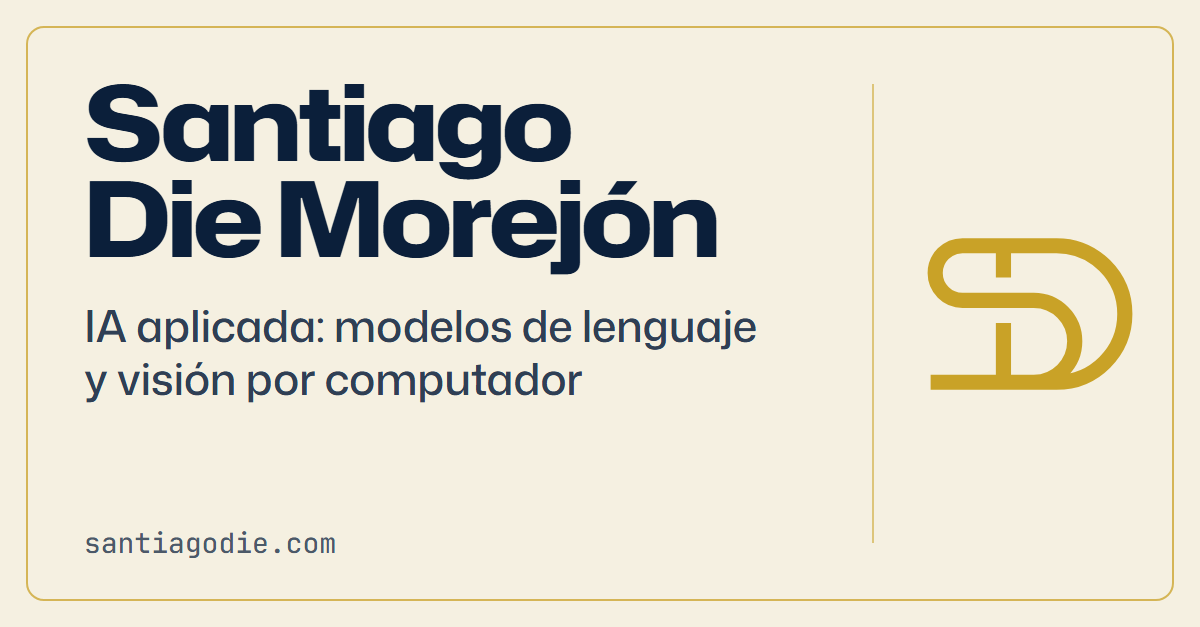
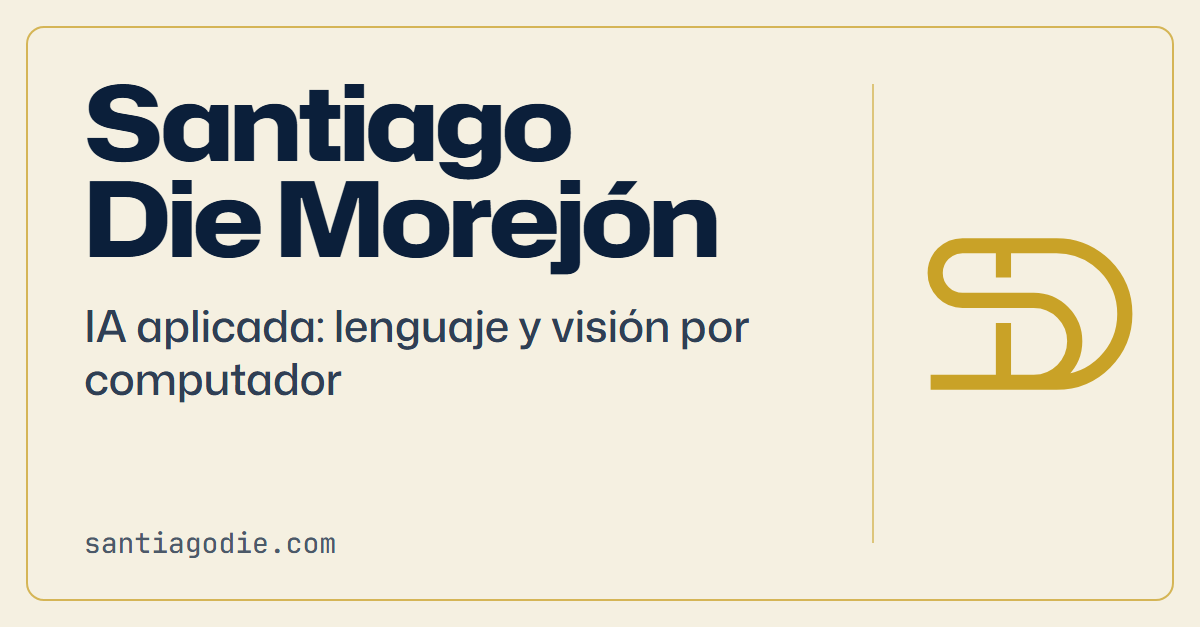
Lote 22: ajustes antes del merge
- Islamontana: frontend y backend en desarrollo; mientras tanto, una versión
  estática se despliega con GitHub Actions; el producto final irá con Docker en
  un servidor propio. Docker sigue fuera de las etiquetas. En el CV, 1 viñeta
  (con 2, los tres CV pasaban a 2 páginas).
- Prompts sin enlace «Modelo»: el modelo público es el ULMFiT, no el DistilBERT
  de la cifra. Satélite lo conserva.
- «Backend y despliegue» con 9 elementos; Pydantic, TypeORM y zod pasan a
  «Backend: librerías», en «Más habilidades». Sin excepción en DESIGN.md.
- Rol del hero más corto: 2 líneas como máximo a 360 px en los tres idiomas.
- print.css: espaciados y texto de las entradas algo más ajustados, solo al
  imprimir; Ctrl+P vuelve a 2 páginas en los tres idiomas y la pantalla queda
  idéntica píxel a píxel.

Claude-Session: https://claude.ai/code/session_011QBFp1mGdbdiuA7uxqzWxG

Changed region(s): [[0.0617, 0.5758, 0.4933, 0.6364], [0.2775, 0.4848, 0.6475, 0.5758]]

diff --git a/css/print.css b/css/print.css
@@ -687,3 +687,51 @@ html[lang="en"] .portrait {
 .more--skills .more__summary {
   display: none !important;
 }
+
+/* Lot 22: the Experience entries grew longer and Contact gained a row (Hugging Face);
+   so that Contact, kept whole with its photo, stays on page two, entry text, section
+   titles, subheads, contact rows and skill rows are set a little tighter. */
+.entry__text,
+.entry__details {
+  font-size: 8pt !important;
+  line-height: 1.35 !important;
+}
+
+.skills__items,
+.skills__group dt,
+.langs dd,
+.langs dt {
+  line-height: 1.2 !important;
+}
+
+.section__title {
+  margin: 2mm 0 0.6mm !important;
+}
+
+.contact__row,
+.contact__link {
+  padding: 0.3mm 0 !important;
+}
+
+.skills__group,
+.langs__item {
+  padding-block: 0.15mm !important;
+}
+
+.subhead {
+  margin: 1.5mm 0 0.4mm !important;
+}
+
+.entry {
+  padding-block: 0.4mm !important;
+}
+
+.section__lead {
+  margin: 0 0 1mm !important;
+}
+
+/* In a skill or language row the value no longer drops 0.4mm below its name. */
+.skills__items,
+.langs dd {
+  margin-top: 0 !important;
+}

diff --git a/DESIGN.md b/DESIGN.md
@@ -104,7 +104,7 @@ Optional About text under the chat is set as display copy (Hubot Sans 500, up to
 - **About chat**: under the section title, in the text column (from 64em columns 3–12, like every other section body, about 1008px at 1440); the conversation keeps a centred 46rem column inside. Navy panel, 22px radius, as tall as the finished chat from the first paint (everything is laid out, only invisible, and the notice keeps its place), so nothing around it moves in any language or width. The conversation is capped at `max(15rem, min(36rem, 100svh − 22rem))`: past that (phones, short windows) it scrolls inside the panel, is followed by the stream as the answer is written, fades at the edges that have more to read, and once finished takes keyboard focus to be scrolled; the notice and the box stay in view below it. At rest a pill box in bone 7 % with the typed question and a 40px gold send button with a navy arrow (48px target), mid-panel. Question bubble in bone with navy text; answer in Mona Sans on navy. Skip and Replay: mono, top-right, 44px, in the same place; one fades out as the other fades in (160 ms, lot 9). Finished: the **message-limit notice** sits above the box, a thin bar in bone 6 % with a 1px gold edge (60 %) and 14px radius, a monoline gold clock drawn like the monogram (square ends, round joins), the sentence in `--bone-2` and the link in gold, underlined, with an SVG arrow (44px target, gold focus ring); the box dims to 72 % with the placeholder in bone 42 % and the send button turned to a slate disk (bone 22 % over navy). Without JavaScript the chat is shown in that finished state, the notice without a time.
 - **Progress line**: see Signature elements. Nodes: a 9px ring on the line at each number (section background fill, gold 1.5px stroke) that fills gold when lit; the number turns from navy 66 % to navy (gold on navy) over 200 ms.
 - **Section header sides**: from 48em, even visible sections (02, 04...) set the number and title right-aligned so they meet the line on the right; body text always stays left-aligned for reading. Numbers are assigned by the build to the visible sections only.
-- **Featured card**: white, 1px gold border (30 %; the traced frame is full gold), 12px radius; one structure for all three: title (translated), course, description, README metrics (value in mono over its label, two across where they fit on one line, otherwise stacked; a value never wraps; a value whose README section exists links to it, `source` in `data/projects.json`, with a fine 1px gold underline, tabular figures unchanged, a 30px target above the card's link layer; an anchor is only added once checked against the README as GitHub renders it), technologies (gold dot separators), then underlined "Live demo" and "Code" links, and "Model" after "Code" where the project's model is public on the Hugging Face Hub (`model` in `data/projects.json`, lot 22: satellite and prompts). Since lot 22 the three featured projects are the face search, the satellite classifier and the prompt classifier (language and vision, the owner's own work). A project made of several repositories (Life simulation) gives each part one compact row, "Service · Live demo · Code", "Web client · Live demo · Code", the part's name leading, where the card is wide enough (one column from 36em to 64em, three columns from 84em); narrower, the part's name sits over its two links. No repository name under the links: it repeated where "Code" already goes, and the small cards keep it. From 64em the three cards are as tall as the tallest and share one subgrid (6 rows: title, course, description, metrics, technologies, links), so every row starts at the same height in all three and the metrics and links line up; the spare space is shared out between the rows (owner, lot 7: the gaps are accepted, the lot 3 limit is lifted). Below 64em (one column), with JavaScript, a card folds to its title and technologies plus a "View details" row (the disclosure's round +/× button, 44px, above the card's link layer, so touching it never opens GitHub); it unfolds course, description, metrics and links (`card__detail` wrappers: `display: contents` elsewhere, a `flow-root` block in one column so its height holds its children's margins, with the section's assembly animation switched off on it so unfolding never replays an entrance), animated as a disclosure (see Disclosure motion; closing keeps the button still on screen, so the cards below never move and the card gathers up into the button), `aria-expanded` and `aria-controls` on the button, folded content out of the tab order (`inert` while it closes, then display: none), state not kept; arriving from the hero's index or any `#p-<id>` link unfolds that card once the scroll has landed (see below). Without JavaScript and on paper, all shows. Projects at 390x844: 2,336px to 1,232px. The whole card is a link to the main repository (for Life simulation, `life-simulation-service`), like a small card: the title link's `::after` covers it, its focus ring goes round the card, and Demo and Code sit above that layer as 44px targets of their own. Three across from 64em, one column below. Hover: lifts 2px, soft shadow, border to full gold. Arriving at a card (`#p-<id>`: the hero's index, a link, or on load; lot 9), the page first scrolls there smoothly. When the scroll lands (`scrollend`, with a 1.2 s fallback, or at once if the card is already in place), a folded card unfolds as a disclosure (700 ms, its top edge still on screen) while its frame traces once in gold (700 ms, `data-arrived`) and fades; the border stays full gold (`:target`). With reduced motion it is unfolded at once, without the trace.
+- **Featured card**: white, 1px gold border (30 %; the traced frame is full gold), 12px radius; one structure for all three: title (translated), course, description, README metrics (value in mono over its label, two across where they fit on one line, otherwise stacked; a value never wraps; a value whose README section exists links to it, `source` in `data/projects.json`, with a fine 1px gold underline, tabular figures unchanged, a 30px target above the card's link layer; an anchor is only added once checked against the README as GitHub renders it), technologies (gold dot separators), then underlined "Live demo" and "Code" links, and "Model" after "Code" where the model behind the card's figures is public on the Hugging Face Hub (`model` in `data/projects.json`; lot 22: satellite only, its ResNet18; the prompt card shows DistilBERT's 67 % and the public model there is the ULMFiT one, so it gets no link until DistilBERT is published). Since lot 22 the three featured projects are the face search, the satellite classifier and the prompt classifier (language and vision, the owner's own work). A project made of several repositories (Life simulation) gives each part one compact row, "Service · Live demo · Code", "Web client · Live demo · Code", the part's name leading, where the card is wide enough (one column from 36em to 64em, three columns from 84em); narrower, the part's name sits over its two links. No repository name under the links: it repeated where "Code" already goes, and the small cards keep it. From 64em the three cards are as tall as the tallest and share one subgrid (6 rows: title, course, description, metrics, technologies, links), so every row starts at the same height in all three and the metrics and links line up; the spare space is shared out between the rows (owner, lot 7: the gaps are accepted, the lot 3 limit is lifted). Below 64em (one column), with JavaScript, a card folds to its title and technologies plus a "View details" row (the disclosure's round +/× button, 44px, above the card's link layer, so touching it never opens GitHub); it unfolds course, description, metrics and links (`card__detail` wrappers: `display: contents` elsewhere, a `flow-root` block in one column so its height holds its children's margins, with the section's assembly animation switched off on it so unfolding never replays an entrance), animated as a disclosure (see Disclosure motion; closing keeps the button still on screen, so the cards below never move and the card gathers up into the button), `aria-expanded` and `aria-controls` on the button, folded content out of the tab order (`inert` while it closes, then display: none), state not kept; arriving from the hero's index or any `#p-<id>` link unfolds that card once the scroll has landed (see below). Without JavaScript and on paper, all shows. Projects at 390x844: 2,336px to 1,232px. The whole card is a link to the main repository (for Life simulation, `life-simulation-service`), like a small card: the title link's `::after` covers it, its focus ring goes round the card, and Demo and Code sit above that layer as 44px targets of their own. Three across from 64em, one column below. Hover: lifts 2px, soft shadow, border to full gold. Arriving at a card (`#p-<id>`: the hero's index, a link, or on load; lot 9), the page first scrolls there smoothly. When the scroll lands (`scrollend`, with a 1.2 s fallback, or at once if the card is already in place), a folded card unfolds as a disclosure (700 ms, its top edge still on screen) while its frame traces once in gold (700 ms, `data-arrived`) and fades; the border stays full gold (`:target`). With reduced motion it is unfolded at once, without the trace.
 - **Small project card**: white, hairline border, 12px radius; title, course, technologies, and at the foot the repository name in mono with an arrow, always whole: it wraps only after a hyphen (`<wbr>` from the build), never inside a word. The whole card is one link to the repository (the title link's `::after` covers it; no nested links), and its focus ring goes round the card; a project with a live web demo adds a small underlined "Demo" link that sits above that layer as a separate target. Owner's rule (lot 6): every card, featured or small, opens its repository (`repo` in `data/projects.json`) wherever it is clicked, never Colab or a download; the secondary link is a live web demo (`demo.type: "web"`) or, discreetly, a Colab notebook ("Colab"); never a download (the library's release link was removed). They live in the More projects scroller (see below), all as tall as the tallest in the row; text is never cut. Hover: lifts 2px, gold border, arrow nudges; press scales to 0.985.
 - **Disclosure motion** (lot 8; one engine in `main.js` for the featured cards' "View details", More projects and More skills; the mobile menu keeps its own CSS transitions).
 
@@ -128,7 +128,7 @@ Optional About text under the chat is set as display copy (Hubot Sans 500, up to
 - **Disclosure** (More projects, under the featured cards): a native `<details>`, closed on every visit (the state is not kept), so the page leads with the three featured projects. One row between two hairlines (`--line`): the title in the group-subhead style (Hubot Sans 700, `--step-1`; the h3 itself sits just before, visually hidden, because screen readers expose a summary as a button and drop a heading inside it), the count in mono tabular figures ("· 7", from `data/projects.json`), and at the far end a round button: a 1px ring in `--line-strong`, 32px seen inside a 44px box, holding a plus of two 1.5px navy strokes. The whole row (72px tall) is the target (`touch-action: manipulation`, no tap flash), with the site's focus ring; hover (fine pointer only) and focus turn the ring full navy. Open: the plus turns 45° into a cross on the fold's own clock (260 ms in, 180 ms out, `--ease-out`). Since lot 8 the block grows and shrinks (see Disclosure motion below). Lot 6 had stopped animating its height because re-measuring the progress line on every frame cost 130–590 ms a frame; lot 8 lifts that by holding the line still while a fold moves. The browser's find-in-page opens it on a match. A link to a card inside (`#p-<id>`), on load or on `hashchange`, works like arriving at a featured card (lot 9): the browser would open it at once and scroll past its summary, so the hash is set aside while the page scrolls smoothly to the summary; once it lands the disclosure grows (700 ms), the card comes into view in its row, and the hash is put back. With reduced motion it opens at once. Opening or closing changes the page height; the progress line re-measures through its ResizeObserver on `main` and a capturing `toggle` listener for any disclosure (at most once a frame, only if `main` changed size, and never while a fold moves: then once when it lands); the scroll keyframes get a new name at each measurement (`progress-draw-a`/`-b`), because a running animation keeps the keyframes it started with (lot 7: with More skills open the tip drew 150–760px behind), its nodes staying on the line and its tip without jumps. The line's samples (length against height, for the tip and the scroll keyframes) come from the straight runs and quarter turns it is drawn with, computed in plain arithmetic; only the total length is asked of the browser. Print (lot 4, to do): `@media print` must show it open.
 - **Scroller** (inside the disclosure): one row of the small cards, native CSS: a grid flowing in columns, `overflow-x: auto`, `scroll-snap-type: x mandatory` (each card snaps at its start), `overscroll-behavior-x: contain`. It bleeds into the page margins, with `scroll-padding-inline` equal to them, so a snapped or focused card lines up with the text column while the next one always peeks in: 85 % of the column below 36em (about 50px of the next card at 390), about 2¼ cards from 36em, about 3⅓ from 64em (at 1440, 354px cards). Its sides with more to see fade out with a `mask` (to transparent, never a colour), as wide as the page margin: driven by `animation-timeline: scroll(self inline)` with registered `--fade-start`/`--fade-end` where supported, otherwise from `data-start`/`data-end` set by main.js. It is a `region` named "More projects, scrollable" (translated), focusable (`tabindex="0"`) so the arrow keys scroll it; a card reached with Tab comes whole into view, clear of the fades. Previous and next arrows (round buttons like the disclosure's, a chevron inside, white-filled so the faded card behind does not show through) sit over the row's sides, in the page margins over the fades, centred on the cards, only for a fine pointer and with JavaScript. Their target is the margin less 12px, between 24px and 44px (44px at 1440, 39px at 1024, 26px at 768), so they keep 6px clear of every card and its focus ring. Each moves one card (smooth, or instant with reduced motion); at its end an arrow is `aria-disabled` and goes away (opacity 0 over 150 ms, then hidden for screen readers and the pointer); with nothing to scroll (a single card) there are no arrows. The wheel is never turned into sideways scrolling: it keeps scrolling the page. Without JavaScript: no arrows; the row scrolls with its scrollbar or a swipe.
 - **Entries**: hairline-ruled rows; period in mono in a 12rem column from 48em; title in display type; organisation with the place in tertiary navy; text; Education's line of subjects or track in tertiary navy, and (lot 22) the degree's thesis and honours as two more lines of the same style (`thesis`, `honors` in `education.items`); Experience's technologies with gold dots (Mona Sans, like the cards'). **Certifications** follow Education as a short ruled list under a group subhead, only while the list has items (empty since lot 22: the quantum computing course is named in its skills group, and French is backed by the Baccalauréat).
-- **Skills**: one ruled row per group, the name (display type) in the 12rem column and the items in Mona Sans (weight 500) with gold dots; no levels, bars or percentages. Lot 22 (owner's table, 2026-11-20, applied AI focus) replaces lot 6's ten groups with twelve: six shown (language and LLMs; computer vision; ML and data; backend and deployment; other languages; AI-assisted development), the same six as the CV's skills (`SKILL_GROUPS` in `tools/make_cv.py`), then six in "More skills" (frontend; models and demos; knowledge management; other languages, coursework; other; quantum computing). **Backing rule (lot 22, owner's rule):** every skill in the six shown groups, on the site and in the CV, is backed by a project or an experience visible on the site (the backing of each one is in `.audit/l22/tabla-contenido.md`); categories (machine learning, deep learning, MLOps, computer vision, NLP, LLMs, data mining) and GitHub are not skills there; a skill backed only by coursework goes to "More skills" under a group whose name says so (C++ and R, "Other languages (coursework)"), and never into the CV. At most nine items a group (split rather than cut), except backend and deployment, twelve by the owner's list in lot 22. A skill joins only with a use in a repository (lot 5 audit) or the owner's say-so, and is never tied to a project it was not part of. No counts per skill (B2, discarded). The first six groups show (`SKILLS_SHOWN` in `tools/build.py`; four until lot 22); the others sit in a "More skills" disclosure (`details.more.more--skills`), the same component as More projects without its scrolling row, its count the number of skills inside; on paper it is open and has no summary row. On phones (below 48em, with JavaScript) its list, longer than a screen, ends with **Hide skills** (EN "Hide skills", ES «Ocultar habilidades», FR «Masquer les compétences»; `skills.hide`): a 44px row like "View details", its round button showing the cross. It closes the disclosure keeping what is below still, so the list gathers up into the button and the summary lands where the button was; focus goes to the summary. Not on paper, not without JavaScript. **Languages** follow as ruled rows of language and level under a group subhead.
+- **Skills**: one ruled row per group, the name (display type) in the 12rem column and the items in Mona Sans (weight 500) with gold dots; no levels, bars or percentages. Lot 22 (owner's table, 2026-11-20, applied AI focus) replaces lot 6's ten groups with thirteen: six shown (language and LLMs; computer vision; ML and data; backend and deployment; other languages; AI-assisted development), the same six as the CV's skills (`SKILL_GROUPS` in `tools/make_cv.py`), then seven in "More skills" (frontend; backend libraries: Pydantic, TypeORM, zod; models and demos; knowledge management; other languages, coursework; other; quantum computing). **Backing rule (lot 22, owner's rule):** every skill in the six shown groups, on the site and in the CV, is backed by a project or an experience visible on the site (the backing of each one is in `.audit/l22/tabla-contenido.md`); categories (machine learning, deep learning, MLOps, computer vision, NLP, LLMs, data mining) and GitHub are not skills there; a skill backed only by coursework goes to "More skills" under a group whose name says so (C++ and R, "Other languages (coursework)"), and never into the CV. At most nine items a group, with no exceptions (split rather than cut: backend and deployment keeps nine, and its libraries go to "More skills"). A skill joins only with a use in a repository (lot 5 audit) or the owner's say-so, and is never tied to a project it was not part of. No counts per skill (B2, discarded). The first six groups show (`SKILLS_SHOWN` in `tools/build.py`; four until lot 22); the others sit in a "More skills" disclosure (`details.more.more--skills`), the same component as More projects without its scrolling row, its count the number of skills inside; on paper it is open and has no summary row. On phones (below 48em, with JavaScript) its list, longer than a screen, ends with **Hide skills** (EN "Hide skills", ES «Ocultar habilidades», FR «Masquer les compétences»; `skills.hide`): a 44px row like "View details", its round button showing the cross. It closes the disclosure keeping what is below still, so the list gathers up into the button and the summary lands where the button was; focus goes to the summary. Not on paper, not without JavaScript. **Languages** follow as ruled rows of language and level under a group subhead.
 - **Contact, footer**: hairline-ruled rows with labels in display type and values in mono (addresses): Email, GitHub, LinkedIn, Hugging Face (lot 22; the same row as the other profiles) (gold arrow), and Location in Mona Sans (no arrow, not a link); footer with the gold monogram. Contact also shows the owner's photo (`img/portrait-*`, 4:5, AVIF and WebP with a JPEG fallback at 1x and 2x, no metadata), untouched, in a fine gold frame with a 5px mat like a card: above the text below 64em, to its right from 64em, under the title where the progress line arrives (8rem wide up to 80em, so every contact value stays on one line; 10rem from 80em). It assembles like a card, its frame tracing in first.
 - **TODO marker**: dashed gold frame; navy text on light, gold on navy. Kept for any TODO string outside paragraphs and entries; paragraphs and entries marked TODO are not published at all.
 
@@ -145,7 +145,7 @@ Optional About text under the chat is set as display copy (Hubot Sans 500, up to
 - **Gone in print:** the header, the language bar, the progress line, the hero's buttons and featured index, section numbers, card frames and icons, the chat's question, notice, box and controls, the More projects button and arrows, the fades, and the footer. **Transformed:** About is the chat's answer as plain paragraphs; More projects is open, as a compact list (title, course and technologies on one line, the links on the next); whatever JavaScript left mid-animation (section assembly, the chat, the monogram) prints finished.
 - After every outside link its URL is printed without the scheme (`data-url`, written by the build); internal links, the cards' own link and Contact (which already shows its addresses) print none. Entries, cards and groups never split across a page (`break-inside: avoid`), headings never end a page (`break-after: avoid`), and Contact stays whole with its photo (16mm, a fine navy frame).
 - **Fonts:** static instances of the site's faces, only for print (`fonts/print/`, declared with `@font-face` inside `print.css`, so the screen never downloads them): "SD Print Sans" Regular and SemiBold (from Mona Sans), "SD Print Display" Bold (from Hubot Sans) and "SD Print Mono" Regular (from JetBrains Mono), made once with fonttools (`.audit/scripts/make-print-fonts.py`). Mona and Hubot are OFL with reserved names, so the instances are renamed; the copyright notices and the licences (`fonts/print/OFL-*.txt`) are kept. Chrome embeds variable fonts in a PDF as drawn glyphs (650 KB a PDF); the static ones embed as small subsets (130–180 KB) and print the same on Windows and on the Ubuntu runner.
-- **Printed CV, lot 6:** skill and language rows are tighter (0.35mm padding, 7.9pt), so ten groups still leave room for Contact on page two. Since lot 22, About prints the CV's summary (`cv.summary`, the same text as the PDF, first person, a print-only `cv-profile` paragraph from `render_cv_profile`) whether or not the CV is public: the chat's AI voice never reaches paper (until lot 22, while the CV was not public, it printed the chat's first paragraph).
+- **Printed CV, lot 6:** skill and language rows are tighter (0.35mm padding, 7.9pt), so ten groups still leave room for Contact on page two. Lot 22 (more groups, longer Experience, a Hugging Face row in Contact): entry text and Education's lines at 8pt and 1.35, skill and language lines at 1.2 with no drop under their name, section titles 2mm/0.6mm, subheads 1.5mm/0.4mm, entries 0.4mm and contact rows 0.3mm of padding; print only (the screen is identical pixel for pixel) and still two pages in the three languages. Since lot 22, About prints the CV's summary (`cv.summary`, the same text as the PDF, first person, a print-only `cv-profile` paragraph from `render_cv_profile`) whether or not the CV is public: the chat's AI voice never reaches paper (until lot 22, while the CV was not public, it printed the chat's first paragraph).
 - **CV-only content** (in the page with `hidden`, shown only by `print.css`, never in the JSON-LD): About is the CV's first-person summary (`cv.summary`; `cv.profile` was removed in lot 22, so there is one summary to keep) in place of the chat, and Contact adds the nationality and the right to work in the EU (`cv.nationality`). The English CV goes without the photo, the Spanish and French ones keep it (`html[lang]`), on paper and in the PDF alike. The row that downloads the CV is left out of the CV itself.
 - **PDFs, made at every deploy:** after `python tools/build.py`, the Pages workflow runs `tools/make_cv.py` (standard library and the runner's Chrome; nothing versioned), which serves `dist/` over HTTP, prints each language page to `dist/cv/cv-santiago-die-{en,es,fr}.pdf`, titles it "Santiago Die Morejón · CV" with the page's language, and fails the deploy unless every PDF weighs under 300 KB, has at most two pages, and has the photo exactly where it belongs. The hero's main button and Contact's "CV (PDF)" row download `/cv/cv-santiago-die-<lang>.pdf`.
 - **`cv.public`** (`data/site.json`, owner's rule 2026-11-17: nothing of the CV is shown until its content is final). While `false`: the hero's button goes back to "View projects", Contact has no CV row, the nationality is not in the page (the summary is, since lot 22: Ctrl+P prints it in place of the chat), `robots.txt` adds `Disallow: /cv/`, and the PDFs are still made and checked at every deploy, with nothing linking to them. `hero.ctaCv`, `cv.*` and `contact.cvFile` stay in i18n.

diff --git a/PRODUCT.md b/PRODUCT.md
@@ -39,7 +39,7 @@ Career moment (confirmed 2026-10-17): Santiago is doing the degree internship an
 - One page per language with sticky navigation: Header, Hero, Projects, About (the chat), Experience, Education, Skills, Contact, Footer. Sections without published content are left out (see below).
 - No automatic redirect by browser language. At most a discreet, dismissible suggestion of the matching language version; the dismissal is remembered.
 - All ten current projects are coursework from the University of La Rioja (confirmed again 2026-11-16 for the two added later); each card shows its course (`subject` in `data/projects.json`, taken from the "Built for the … course" line of each README). Official Spanish course names: "Sistemas Distribuidos", "Programación de Aplicaciones Web", "Inteligencia Artificial", "Profesión de Ingeniero Informático", "Tecnología Orientada a Objetos", "Taller Transversal I: Programación y Proceso de Información"; English and French use natural translations.
-- Featured projects (one row of cards with their README metrics; no screenshots since v2.4, owner's choice): since lot 22 (2026-11-20, option B), face-similarity-search-pipeline, satellite-image-classifier and prompt-topic-classifier, one language project and two vision projects, all the owner's own work; graduate-salary-predictor and the life simulation moved to More projects. Satellite and prompts link their public models on the Hugging Face Hub ("Model"). The rest are small cards (title, course, technologies) that each link to their repository, with a separate Demo link where there is one.
+- Featured projects (one row of cards with their README metrics; no screenshots since v2.4, owner's choice): since lot 22 (2026-11-20, option B), face-similarity-search-pipeline, satellite-image-classifier and prompt-topic-classifier, one language project and two vision projects, all the owner's own work; graduate-salary-predictor and the life simulation moved to More projects. Satellite links its public model on the Hugging Face Hub ("Model"); prompts will once its DistilBERT is published. The rest are small cards (title, course, technologies) that each link to their repository, with a separate Demo link where there is one.
 - One project can span several repositories: the life simulation is one card with two parts (`parts` in `data/projects.json`), life-simulation-service and life-simulation-web-client, each with its own repository and demo, grouped by repository.
 - Demo links have a type: `web` (live site), `colab` (notebook) or `download` (a release to download, e.g. library-management-system's latest GitHub release).
 - No analytics (owner's decision, 2026-11-16, after Google Analytics was added and removed on 2026-10-21): no tracking scripts, no cookies, so no consent banner. The only client storage is the language-suggestion dismissal in `localStorage`.
@@ -49,7 +49,7 @@ Career moment (confirmed 2026-10-17): Santiago is doing the degree internship an
 
 ## Brand Commitments
 
-- Name: **Santiago Die Morejón**. Headline since lot 22 (option 1 of the owner's table): "Applied AI: language models and computer vision" (`hero.role`; ES «IA aplicada: modelos de lenguaje y visión por computador», FR « IA appliquée : modèles de langage et vision par ordinateur »), also in the page title and the link previews (`tools/make_og.py`). Earlier: "Computer Engineer · AI & ML · MLOps"; French "Ingénieur informatique" (owner's choice, 2026-10-18, not "Ingénieur informaticien").
+- Name: **Santiago Die Morejón**. Headline since lot 22: the page title "Applied AI: language and computer vision" (ES «IA aplicada: lenguaje y visión por computador», FR « IA appliquée : langage et vision par ordinateur »); the hero's role line and the link previews (`hero.role`, `tools/make_og.py`) say the same, at most two lines at 360px. Earlier: "Computer Engineer · AI & ML · MLOps"; French "Ingénieur informatique" (owner's choice, 2026-10-18, not "Ingénieur informaticien").
 - SD monogram (`assets/logo/sd-gold.svg`, copied unmodified from `sd-logo/`), used in header and footer. The favicons redraw the same geometry: `favicon.svg` without a background, navy in light mode and white in dark mode, with a stroke of 28 instead of 20 so it holds at 16 px; `favicon.ico` (16, 32, 48 px) navy on a rounded bone square for browsers without SVG favicons; `apple-touch-icon.png` gold on navy with a safe margin.
 - Logo versions from `sd-logo/`, unmodified: `sd-navy.svg` on light grounds, `sd-gold.svg` on navy.
 - LinkedIn banner concept (`linkedin-banner.png`): a phrase shown as `tokenize()` chips with token ids (cl100k_base) and a `predict_next()` panel, "Computer → engineer 0.86, science 0.09, vision 0.03, programmer 0.02". Since v2.1 the hero expands it into a diagram of how a language model turns the prompt "Who is Santiago Die?" into "A computer engineer focused on AI and MLOps." (translated per page): token ids are real, the other values illustrative, and the static diagram shows the banner's own step, "computer → engineer 0.86". It is described as "a language model" in general, never as any specific model.
